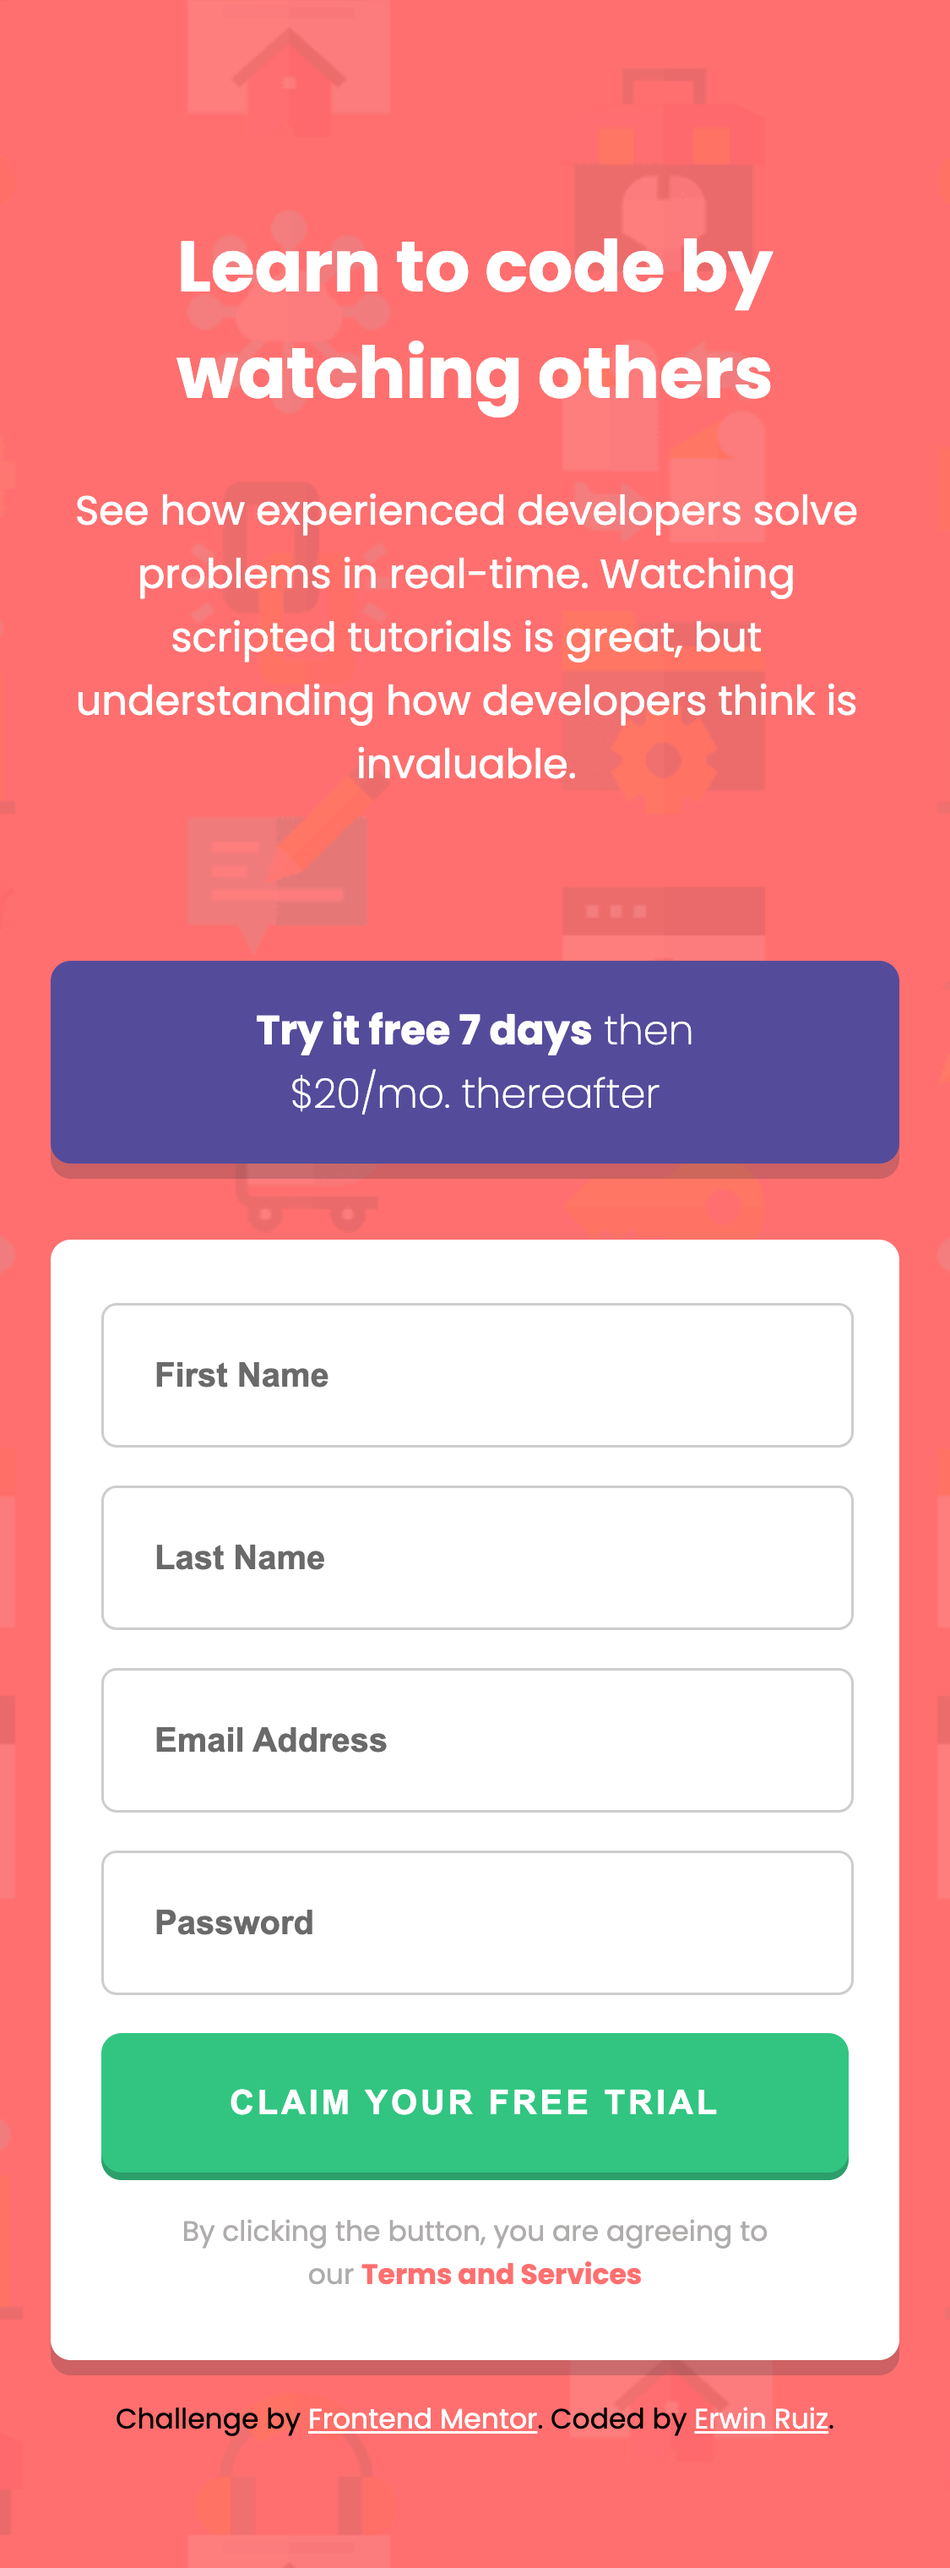
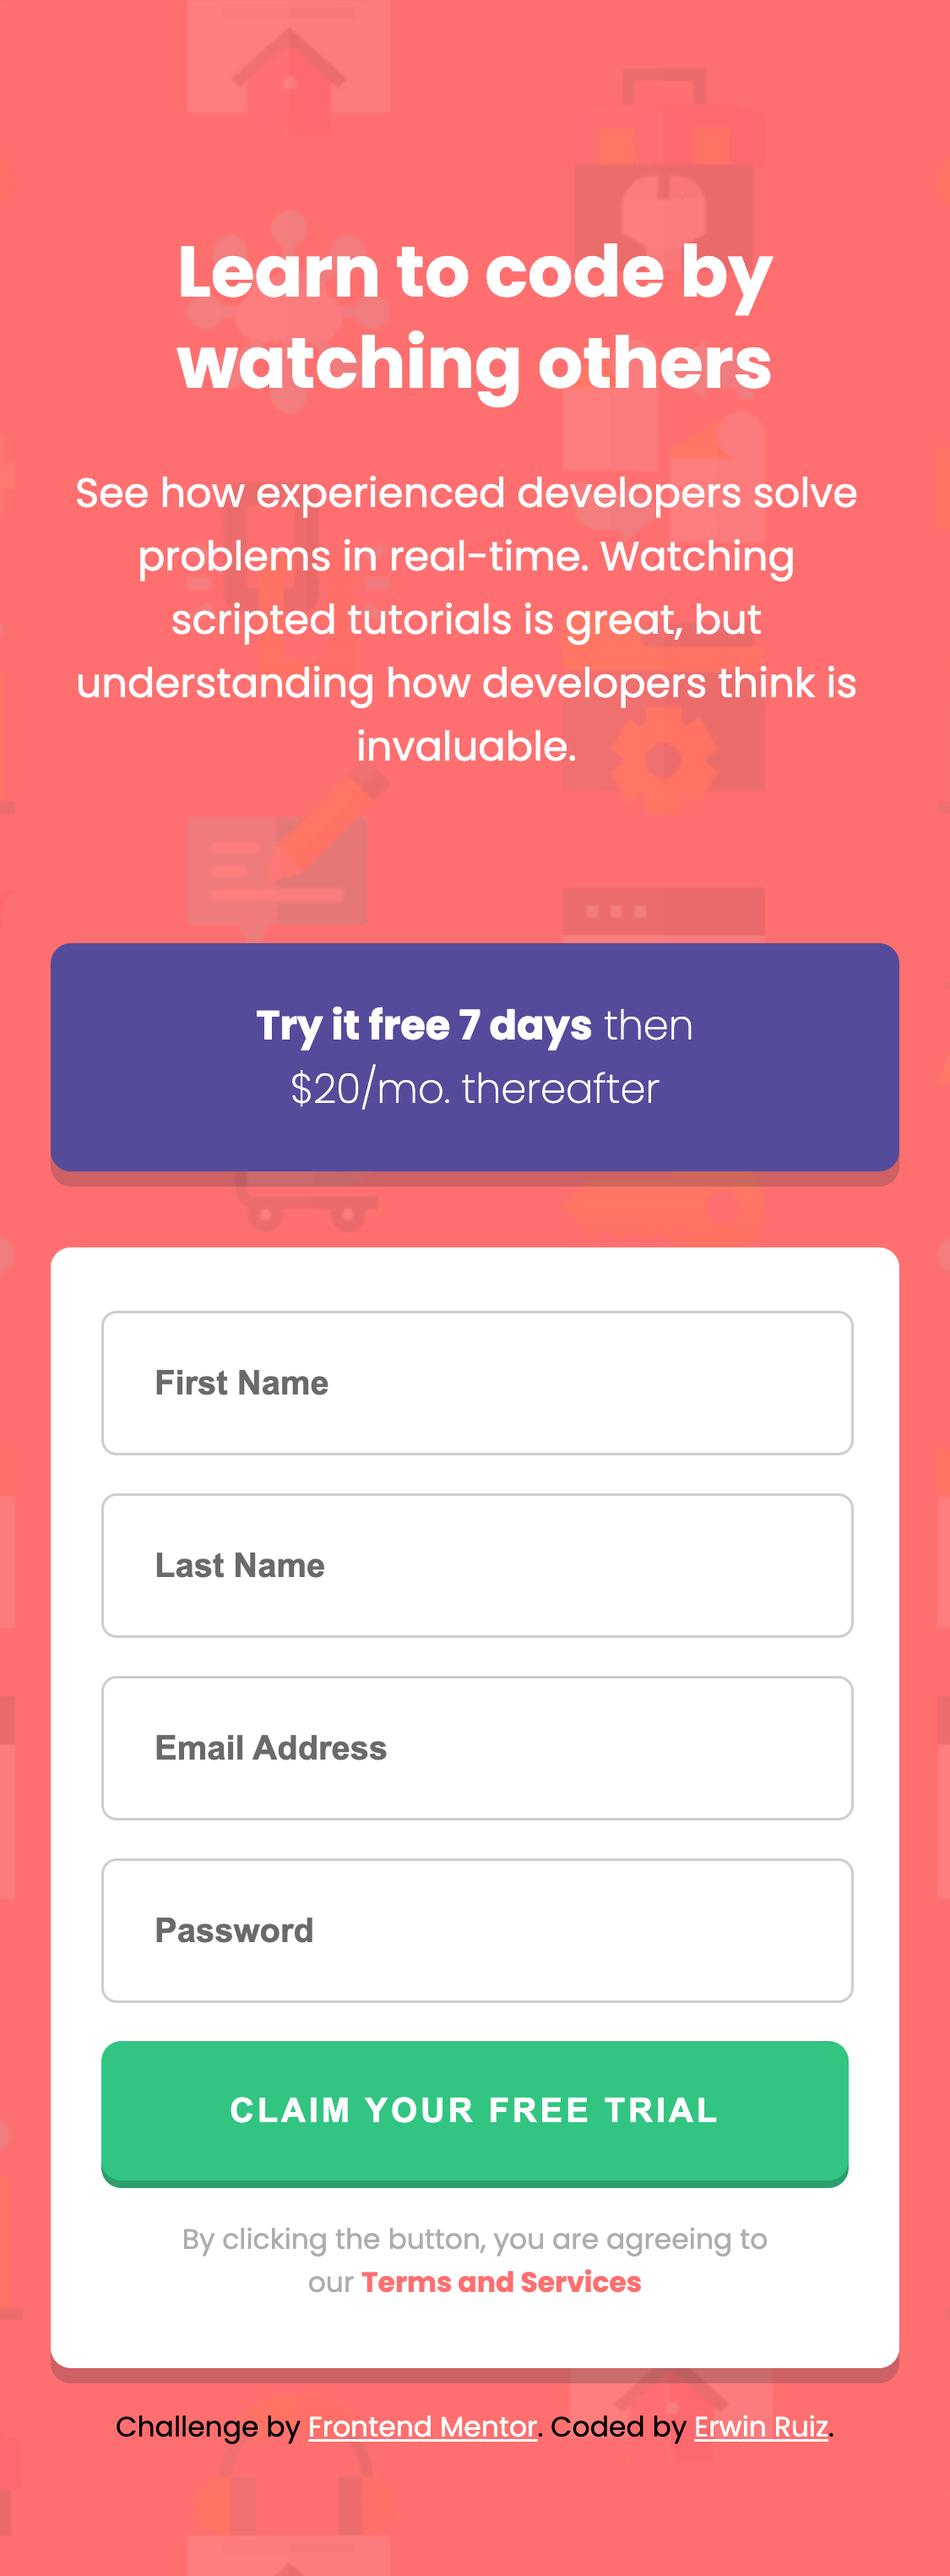
Make desktop design

diff --git a/app.css b/app.css
@@ -24,20 +24,23 @@ body {
   font-family: "Poppins", sans-serif;
   background-color: var(--Red);
   background-image: url("./images/bg-intro-mobile.png");
-  padding: 85px 0 50px 0;
+  padding: 90px 0 50px 0;
   display: flex;
+  flex-direction: column;
   align-items: center;
   justify-content: center;
 }
 section {
   width: 335px;
   padding: 0 20px;
+  margin-bottom: 15px;
 }
 section h1 {
   font-size: 28px;
   color: white;
   text-align: center;
   margin-bottom: 20px;
+  line-height: 1.3;
 }
 section .description {
   color: white;
@@ -49,7 +52,7 @@ section .description {
 section .try_free-btn {
   background-color: var(--Blue);
   color: white;
-  padding: 15px 48px;
+  padding: 20px 48px;
   text-align: center;
   border-radius: 8px;
   margin-bottom: 30px;
@@ -63,7 +66,6 @@ section form {
   background-color: white;
   border-radius: 8px;
   padding: 25px 20px;
-  margin-bottom: 15px;
   box-shadow: 0 6px 0px var(--DarkBlueTransparent);
 }
 section form input {
@@ -110,4 +112,41 @@ section form p span {
 }
 section form p span:hover {
   text-decoration: underline;
+}
+
+@media (min-width: 1200px){
+  body {
+    height: 100vh;
+    background-image: url("./images/bg-intro-desktop.png");
+    padding: 0;
+  }
+  section {
+    width: 1140px;
+    display: flex;
+    margin: 40px 0 25px 0;
+    padding: 0;
+  }
+  section h1 {
+    font-size: 48px;
+    text-align: left;
+    margin-top: 180px;
+    margin-bottom: 25px;
+    line-height: 1.2;
+  }
+  section .description {
+    text-align: left;
+    margin-bottom: 0;
+    width: 90%;
+  }
+  section .try_free-btn {
+    margin: 0 20px 25px 0;
+  }
+  section form {
+   width: 480px;
+   padding: 40px 30px;
+   margin-right: 20px;
+  }
+  section form input {
+    margin-bottom: 20px;
+  }
 }

diff --git a/index.html b/index.html
@@ -53,14 +53,14 @@
           </p>
         </form>
       </div>
-      <footer>
-        <p class="attribution">
-          Challenge by
-          <a href="https://www.frontendmentor.io?ref=challenge" target="_blank"
-            >Frontend Mentor</a
-          >. Coded by <a href="#">Erwin Ruiz</a>.
-        </p>
-      </footer>
     </section>
+    <footer>
+      <p class="attribution">
+        Challenge by
+        <a href="https://www.frontendmentor.io?ref=challenge" target="_blank"
+          >Frontend Mentor</a
+        >. Coded by <a href="#">Erwin Ruiz</a>.
+      </p>
+    </footer>
   </body>
 </html>
